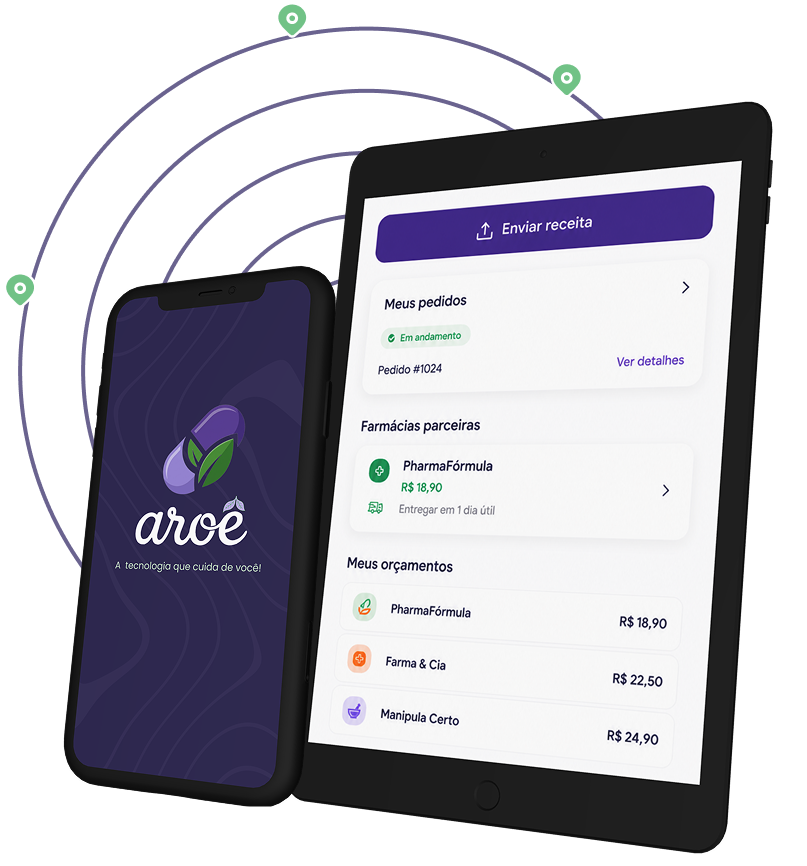
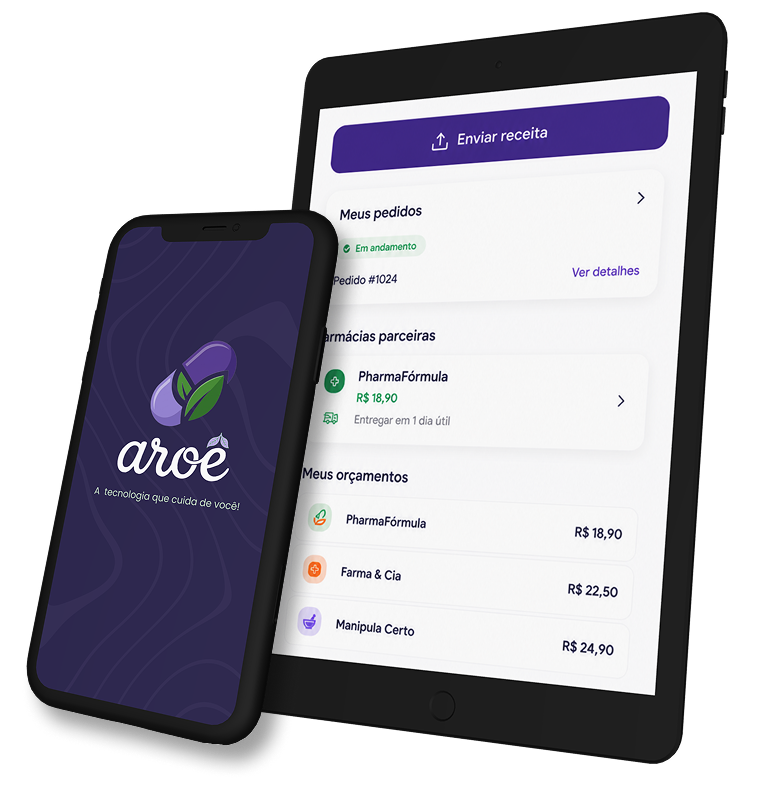
fix: ajustando cores de acordo com o themes

diff --git a/src/components/ui/Button.jsx b/src/components/ui/Button.jsx
@@ -1,20 +1,36 @@
-export default function Button({ children, variant = 'primary', onClick = () => {}, to }) {
-    const variants = {
-        primary: "bg-indigo-600 hover:bg-indigo-700 text-white rounded-xl shadow-lg shadow-indigo-500/30",
-        outline: "bg-white/5 border border-white/30 text-white hover:bg-white/12 rounded-xl backdrop-blur-sm",
+import { Link } from "react-router-dom"
 
-        outlineDark: "border-2 border-primary/30 text-primary hover:border-primary/60 hover:bg-primary/5 rounded-xl backdrop-blur-sm",
+const variants = {
+    primary: 'bg-primary hover:bg-primary/90 text-white rounded-xl shadow-md shadow-primary/20',
+    outline: 'bg-white/8 border border-white/30 text-white hover:bg-white/15 rounded-xl backdrop-blur-sm',
+    outlineDark: 'border-2 border-primary/30 text-primary hover:border-primary/60 hover:bg-primary/5 rounded-xl',
+    navOutline: 'border border-white/50 text-white hover:bg-white/12 rounded-full',
+    navPrimary: 'bg-secondary hover:bg-secondary/90 text-white rounded-full shadow-sm shadow-secondary/20',
+}
 
-        // TODO mudar esses dois aqui pra o estilo do figma dps
-        navOutline: "border border-white/60 text-white hover:bg-white/10 rounded-full",
-        navPrimary: "bg-purple-700 hover:bg-purple-800 text-white rounded-full",
+export default function Button({
+    children,
+    variant = 'primary',
+    to,
+    type = 'button',
+    className = '',
+    onClick,
+}) {
+    const base =
+        `inline-flex items-center gap-2 text-sm font-semibold px-6 py-2.5 ` +
+        `cursor-pointer transition-all duration-300 select-none ` +
+        `${variants[variant] ?? variants.primary} ${className}`
+ 
+    if (to) {
+        return (
+            <Link to={to} className={base}>
+                {children}
+            </Link>
+        )
     }
-    
+ 
     return (
-        <button
-            onClick={onClick}
-            className={`flex items-center gap-2 text-sm font-semibold px-6 py-2.5 rounded-xl cursor-pointer transition-all duration-300 ${variants[variant]}`}
-        >
+        <button type={type} onClick={onClick} className={base}>
             {children}
         </button>
     )

diff --git a/src/components/layout/Footer.jsx b/src/components/layout/Footer.jsx
@@ -23,7 +23,7 @@ const links = {
 
 export default function Footer() {
     return (
-        <footer className="bg-[#12113a] text-white">
+        <footer className="bg-primary text-white">
 
             <div className="max-w-6xl mx-auto px-8 py-14">
                 <div className="grid grid-cols-1 md:grid-cols-4 gap-12">
@@ -37,7 +37,7 @@ export default function Footer() {
 
                     {Object.entries(links).map(([title, items]) => (
                         <div key={title} className="flex flex-col gap-4">
-                            <span className="text-sm font-semibold text-violet-400">
+                            <span className="text-sm font-semibold text-primary-light">
                                 {title}
                             </span>
 

diff --git a/src/pages/Landing/sections/HowItWorksSection.jsx b/src/pages/Landing/sections/HowItWorksSection.jsx
@@ -76,7 +76,8 @@ export default function HowItWorksSection() {
                         </Button>
 
                         <Button variant='outlineDark'>
-                            <Play size={14} className="fill-primary" />
+                            <Play size={14} style={{ fill: '#2A1F5E' }} />
+                            {/* <Play size={14} className="fill-primary" /> */}
                             Ver como funciona
                         </Button>
                     </div>